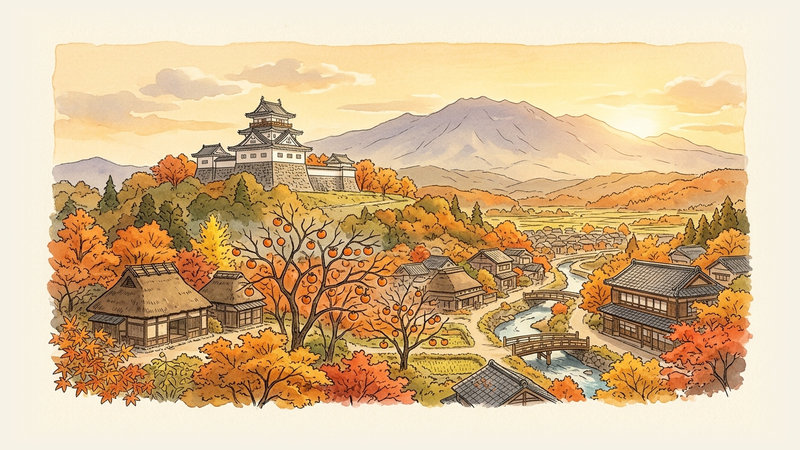
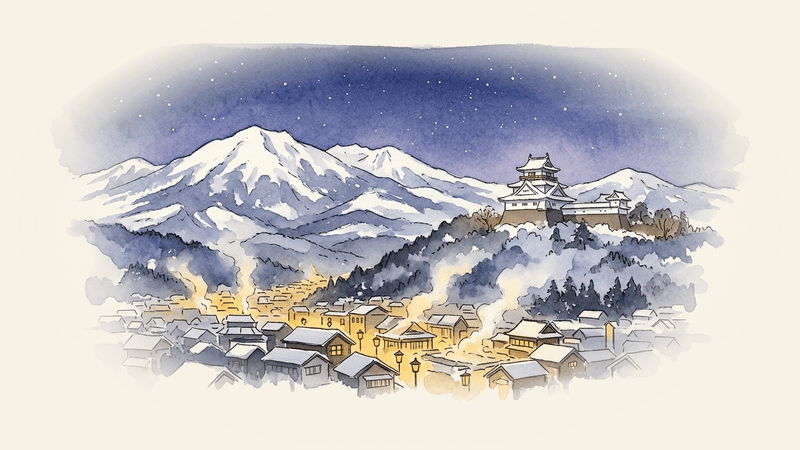
fix(routes): diversify route eyecatch visual archetypes for Batch #64 and codify Prescriptions 132-133

diff --git a/.agents/skills/create-route/SKILL.md b/.agents/skills/create-route/SKILL.md
@@ -153,7 +153,14 @@ node .agents/skills/create-route/scripts/deploy-route.mjs scripts/areas/<slug>.m
 ```
 
 ### 最終確認と画像表示・リリース完了ゲート（必須）
-1. **処方箋㊲〜131のセルフチェック（必須）**:
+1. **処方箋㊲〜133のセルフチェック（必須）**:
+   - **アンダースコア／ハイフン表記揺れ（`kaminoyama_onsen` vs `kaminoyama-onsen` 等）や冠称有無（`tatsuno` vs `hon-tatsuno` 等）による既存駅・既存スポット重複の機械的ブロック（処方箋133）**: 過去バッチの `.mjs` ファイルにはアンダースコア区切り（`kaminoyama_onsen.mjs`, `echizen_ono.mjs`, `bungo_taketa.mjs` 等）や旧町名・駅名略称（`tatsuno.mjs`, `obi.mjs` 等）で作成されたものが存在する。新規ルート作成時にファイル名の完全一致だけで未作成判定を行うと、同一駅・同一スポット群の重複ルートを誤って再作成してしまう。これを防ぐため、新駅選定時および `verify-and-geocode.mjs` において `scripts/areas/*.mjs` 全件を走査し、①ハイフンとアンダースコアを正規化した `slug`（`slug.replace(/-/g, '_')`）の重複、および ②同一 `station`（または同一市区町村）における既存ルートとのスポット名（`spots[].name`）の重複が1件でもある場合は検証エラーとして機械的にブロックする（同一駅で第2ルートを作成する場合は、既存ルートと5スポットすべてが100%非重複でなければならない）。
+   - **アイキャッチ画像（`eyecatch_prompt`）の「昼間の木造・白壁建築の斜め外観」テンプレ固定化禁止と、1バッチ5ルートの色彩・時間帯・アングル・主役モチーフ完全分散（処方箋132）**: 一覧画面でカードが並んだ際、全ルートの `eyecatch_prompt` が `"Clear daylight architectural watercolor and ink illustration of..."` で始まり「昼間の茶色い木造建築／白壁蔵の斜め外観＋手前の道や水路＋背景の緑山」ばかりになると、カードの見た目（色味・構図・ニュアンス）がほぼ同じになってしまう。これを防ぐため、`Clear daylight architectural watercolor` という定型文頭は使用禁止（`verify-and-geocode.mjs` で機械ブロック）とし、1バッチ5駅では必ず以下の **5つの異なる視覚アーキタイプ（支配色・時間帯/季節・アングル・主役）** に1駅ずつ割り振ること：
+     1. **【雪景・冬宵（群青・純白・琥珀の灯り）】** `Serene winter twilight... in cool indigo-blue, pure snow-white, and warm amber lantern glow`（雪化粧の街並み・湯けむり・窓の灯り）
+     2. **【俯瞰・春〜新緑パノラマ（翠緑・桜色・空色・水面）】** `High-angle panoramic spring/summer... in vivid emerald green, soft cherry-blossom pink, and clear sky blue`（高台・庭園・海や湖・棚田を見下ろす広角俯瞰、中央に茶色い家屋を置かない）
+     3. **【工芸・灯火・象徴モチーフのクローズアップ（朱紅・金箔・珊瑚色）】** `Rich decorative close-up... in vibrant vermilion red, coral pink, and warm gold leaf tones`（花嫁のれん・和ろうそく・繭と座繰器・漆器・提灯・柑橘など建物の外観以外の象徴物を大胆にクローズアップ）
+     4. **【乗り物・橋梁・巨樹・石垣のダイナミックローアングル（コバルトブルー・ターコイズ・深緑）】** `Crisp azure-blue / deep-emerald low-angle composition...`（鉄道車両のノーズ・眼鏡橋や赤煉瓦アーチの見上げ・巨杉並木と苔むす石垣の仰角）
+     5. **【夕景・月夜・朝霧の雲海シルエット（茜色・黄金・紫暮）】** `Dramatic golden-sunset and twilight-purple / morning sea-of-clouds...`（夕空と満月に浮かぶ断崖の城壁・雲海に浮かぶ山城・夕陽に染まる港や渓谷）
    - **バッチ横断プリフライト・ワンライナーによる「①`title` 構文・語尾の完全ユニーク化」「②`rarity: 4` の `A, B, C, D` 全キー網羅」「③Spot 1→2 `見どころ` 連続および `食事` 最終Spot 5配置の機械的ブロック」「④全プロンプトのASCII純度検査」のコミット前強制（処方箋131）**: バッチ5駅を束ねた際に「疑問形タイトル `なぜ〜のか` や動詞末尾 `〜を歩く` がバッチ内で2駅重複する」「`rarity: 4` が `A, B, C` のみに偏り `D: 4` が0件になる」「`choices[].badge.image_prompt` に `wooden桶` のような漢字1文字が混入する」「`見どころ` が Spot 1→2 で連続し `食事` が Spot 5（`休憩`・`買い物` の後）に置かれる」ケースを防ぐため、デプロイ前にワンライナーで以下4点を機械的に強制すること：①バッチ5駅で `なぜ〜のか` は最大1駅までとし、末尾表現（`〜を歩く` / `〜を巡る` / `〜をめぐる` / `〜を訪ねる` / `〜を辿る` / 体言止め）の重複を0件にする、②5ルートの `choices` 全体で `rarity: 4` が割り当てられた `key` の集合が `{A, B, C, D}` すべてを含むこと、③`spots[0].spot_type === '見どころ'` かつ `spots[1].spot_type !== '見どころ'`（開幕 `見どころ` 2連続禁止）かつ `食事` の index `<` `休憩` の index かつ `買い物` は Spot 4 または Spot 5（`index >= 3`）に配置すること、④全11プロンプト（`eyecatch_prompt`, `completion_badge.image_prompt`, `choices[].badge.image_prompt`, `spots[].image_prompt`）すべてで `/[^\x00-\x7F]/.test(p) === false` であること。
    - **同一バッチ内の城下町アイキャッチ構図（カメラアングル・主役モチーフ）の事前分散と、外来語「ギャラリー」に含まれる禁止語部分文字列（`ラリー`）の回避（処方箋129）**: ① 1バッチ5駅の中に城下町（天守・城跡）が複数含まれる場合、すべてを「水堀の斜め下から白亜の天守を見上げる仰角構図」にすると一覧画面でシルエットが類似するため、バッチ設計時にアイキャッチの主役とアングルを **「A駅：天守全景」「B駅：高石垣・城門のローアングルまたは旧街道の町家並みとの対比」「C駅：屋根付き橋や借景庭園・洋館からの眺め」** のように事前割り当てして視覚的コントラストを最大化すること。また、縦長の天守や塔を描く `route-eyecatch.png`（16:9横長）で `fit: "cover"` リサイズを行うと屋根先端が見切れる場合は、`fit: "contain"`（背景 `#F7F2E6`）＋円形ビネットで天守の鯱まで完全に収めること。② カフェや展示空間の解説で「アートギャラリー」「ギャラリーのような空間」と書くと、外来語の一部として禁止語『ラリー』（`/ラリー/`）が機械検出されるため、**「画廊」「アトリエ」「美術空間」** 等に言い換えて部分一致もゼロにすること。
    - **複合語に含まれる禁止語部分文字列（池泉回遊式庭園など）の回避と、英語 `image_prompt` への日本語文字混入チェック（処方箋128）**: ① 「池泉回遊式庭園」や「回遊魚」のように一般名詞・専門用語の一部として『回遊』が含まれる場合、文脈上はUX表現の「回遊」ではなくても機械的な禁止語監査（`/回遊/`）でヒットするため、日本庭園を描写する際は「池泉回遊式庭園」ではなく **「池泉庭園」「湧水の池泉庭園」「庭の池泉」** と表現し、部分一致を含めて禁止語（`回遊`・`挑戦`・`クリア`・`獲得` 等）がファイル内で完全に0件となるように統一すること。② 和菓子等の英語プロンプトを記述する際、`glossy dark-brown羊羹 slices` のように日本語の漢字（`羊羹` 等）が英語テキスト中に誤って残ると画像生成AIが漢字テキストを画面内に描画するリスクが生じるため、スクリプト保存後の検証に `/[^\x00-\x7F]/.test(prompt)` を組み込み、`eyecatch_prompt`・`image_prompt` 内に日本語（漢字・ひらがな・カタカナ・全角記号）が1文字も混入していないことを機械的に保証すること（例：`羊羹` → `yokan jelly`）。
